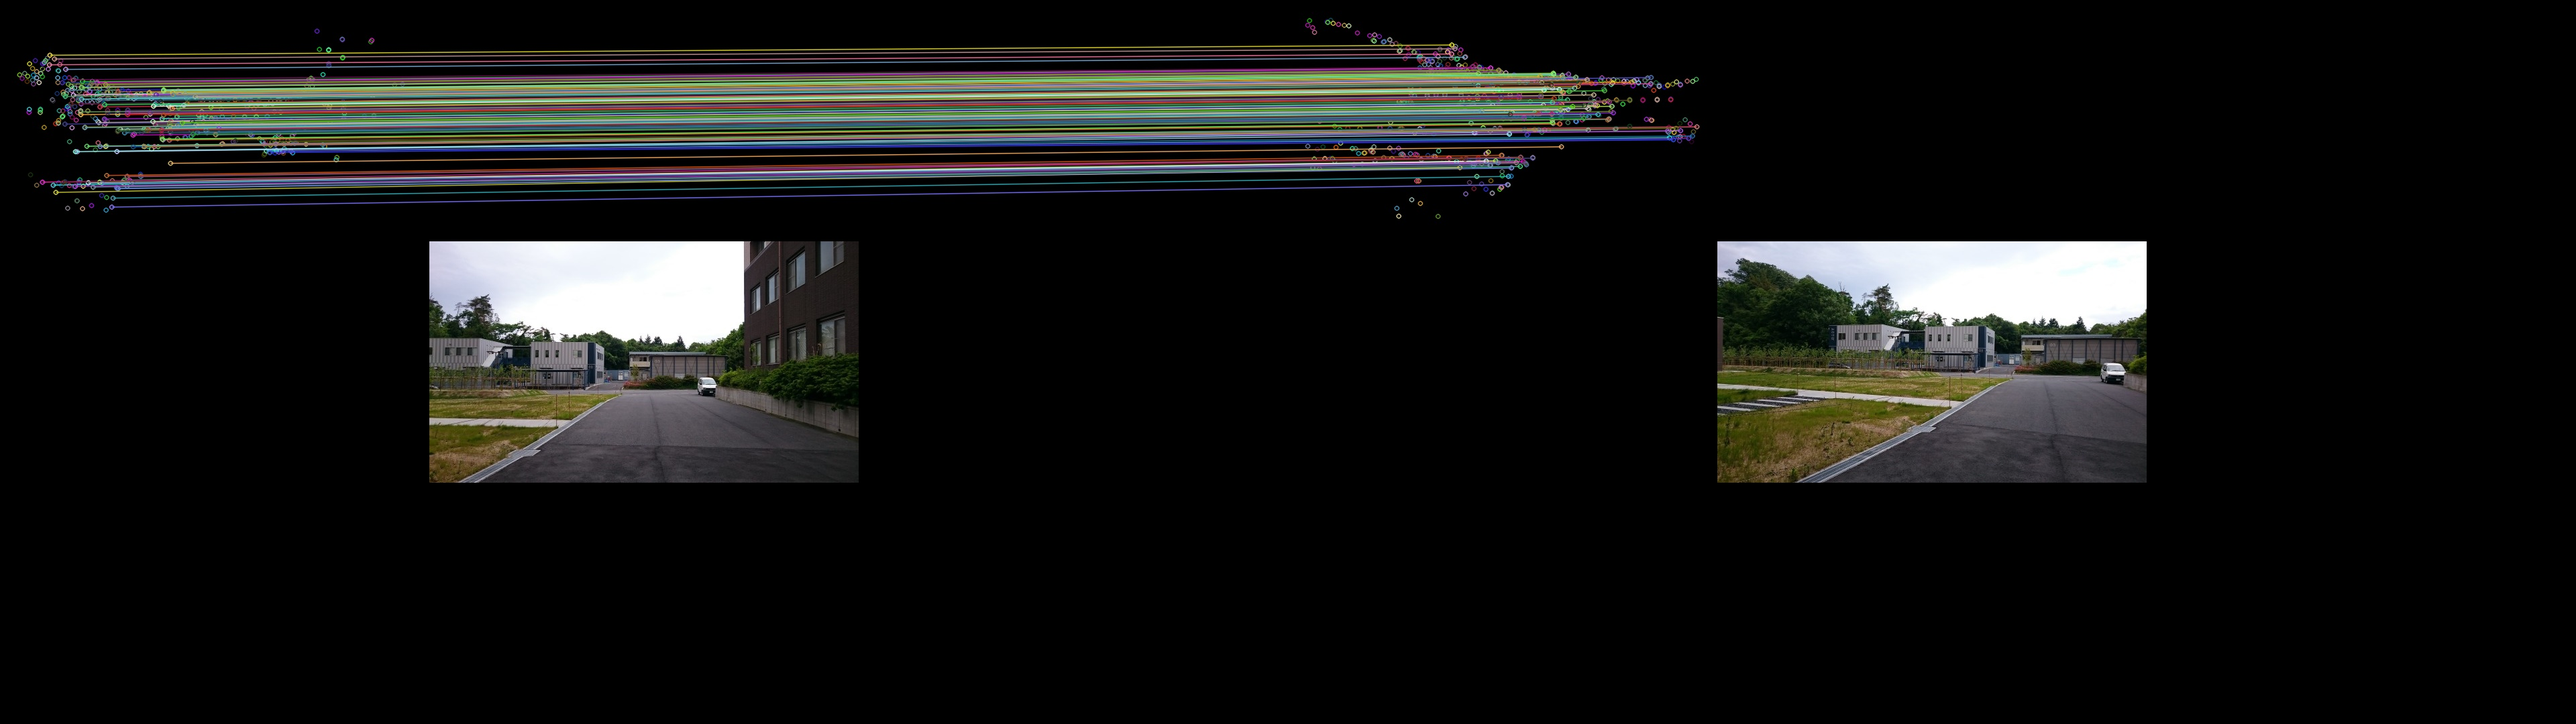
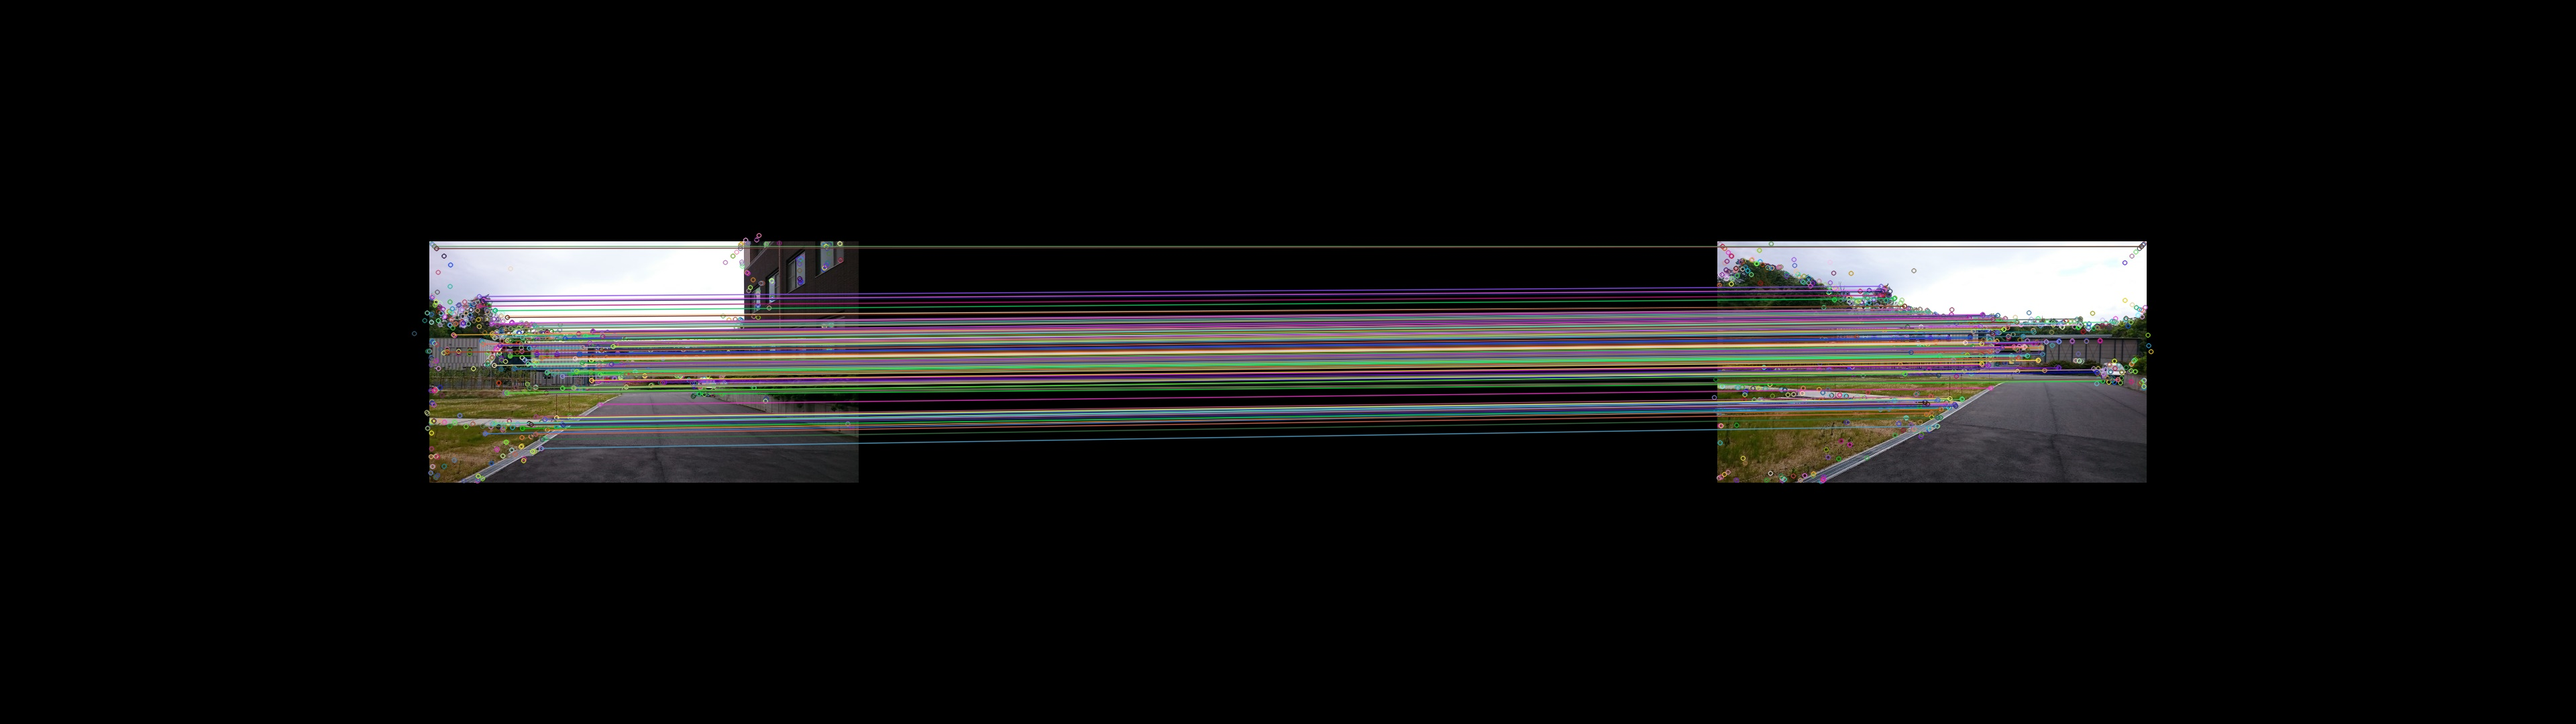
Trim関数で画像の黒部分をなくす

Changed region(s): [[0.1562, 0.3361, 0.8438, 0.6417], [0.0, 0.0306, 0.6562, 0.3056], [0.6875, 0.6417, 0.7188, 0.6722]]

diff --git a/Stitching/Stitch.py b/Stitching/Stitch.py
@@ -3,66 +3,97 @@
 import cv2
 import numpy as np
 
-imgSrc1 = cv2.imread('2.jpg')
-imgSrc2 = cv2.imread('1.jpg')
+def main():
+    imgSrc1 = cv2.imread('1.jpg')
+    imgSrc2 = cv2.imread('2.jpg')
 
-row,col,ch = imgSrc1.shape
-M = np.float32([[1,0,col],[0,1,row]])
-marginedImgSrc1 = cv2.warpAffine(imgSrc1,M,(imgSrc1.shape[1] * 3, imgSrc1.shape[0] * 3))
-marginedImgSrc2 = cv2.warpAffine(imgSrc2,M,(imgSrc2.shape[1] * 3, imgSrc2.shape[0] * 3))
-cv2.imwrite('marginedImgSrc1.jpg', marginedImgSrc1)
-cv2.imwrite('marginedImgSrc2.jpg', marginedImgSrc2)
-#グレースケール化
-imgSrc1Gray = cv2.cvtColor(marginedImgSrc1, cv2.COLOR_BGR2GRAY)
-imgSrc2Gray = cv2.cvtColor(marginedImgSrc2, cv2.COLOR_BGR2GRAY)
+    src1Rows,src1Cols,src1Ch1 = imgSrc1.shape
+    src2Rows,src2Cols,src1Ch2 = imgSrc2.shape
 
-# 特徴点  kp1, kp2
-# 特徴量記述子  des1, des2
-akaze = cv2.AKAZE_create()
-kp1, des1 = akaze.detectAndCompute(imgSrc1Gray, None)
-kp2, des2 = akaze.detectAndCompute(imgSrc2Gray, None)
+    # 余白が少ないと画像端の特徴点検出が行われないため、画像を任意の方向からくっつけるため余白を追加
+    H = np.float32([[1,0,src1Cols],[0,1,src1Rows]])
+    marginedImgSrc1 = cv2.warpAffine(imgSrc1,H,(src1Cols * 3, src1Rows * 3))
+    marginedImgSrc2 = cv2.warpAffine(imgSrc2,H,(src2Cols * 3, src2Rows * 3))
+    cv2.imwrite('marginedImgSrc1.jpg', marginedImgSrc1)
+    cv2.imwrite('marginedImgSrc2.jpg', marginedImgSrc2)
+    #グレースケール化
+    imgSrc1Gray = cv2.cvtColor(marginedImgSrc1, cv2.COLOR_BGR2GRAY)
+    imgSrc2Gray = cv2.cvtColor(marginedImgSrc2, cv2.COLOR_BGR2GRAY)
 
-# 特徴量をBFMatcher（総当り）でマッチング。
-# knnMatchで上位k = 3つのマッチング結果をmatchesに格納
-match = cv2.BFMatcher()
-matches = match.knnMatch(des2, des1, k=2)
+    # 特徴点  kp1, kp2
+    # 特徴量記述子  des1, des2
+    akaze = cv2.AKAZE_create()
+    kp1, des1 = akaze.detectAndCompute(marginedImgSrc1, None)
+    kp2, des2 = akaze.detectAndCompute(marginedImgSrc2, None)
 
-# 1つのmに対する2つのマッチング結果(n)同士の距離(distance)が離れていれば、良点(good)とする。
-goods = []
-for m, n in matches:
-    if m.distance < 0.7 * n.distance:
-        goods.append(m)
+    # 特徴量をBFMatcher（総当り）でマッチング。
+    # knnMatchで上位k = 3つのマッチング結果をmatchesに格納
+    match = cv2.BFMatcher()
+    matches = match.knnMatch(des2, des1, k=2)
 
-# ホモグラフィ計算 よくわからん
-MIN_MATCH_COUNT = 4
-if len(goods) > MIN_MATCH_COUNT:
-    src_pts = np.float32([ kp2[m.queryIdx].pt for m in goods ])
-    dst_pts = np.float32([ kp1[m.trainIdx].pt for m in goods ])
-    H = cv2.findHomography(src_pts, dst_pts, cv2.RANSAC, 5.0)[0]
-else:
-    print('Not enought matches are found - {}/{}'.format(len(goods), MIN_MATCH_COUNT))
-    exit(1)
+    # 1つのmに対する2つのマッチング結果(n)同士の距離(distance)が離れていれば、良点(good)とする。
+    goods = []
+    for m, n in matches:
+        if m.distance < 0.7 * n.distance:
+            goods.append(m)
 
+    # ホモグラフィ計算 よくわからん
+    MIN_MATCH_COUNT = 4
+    if len(goods) > MIN_MATCH_COUNT:
+        src_pts = np.float32([ kp2[m.queryIdx].pt for m in goods ])
+        dst_pts = np.float32([ kp1[m.trainIdx].pt for m in goods ])
+        H = cv2.findHomography(src_pts, dst_pts, cv2.RANSAC, 5.0)[0]
+    else:
+        print('Not enought matches are found - {}/{}'.format(len(goods), MIN_MATCH_COUNT))
+        exit(1)
 
-# ホモグラフィ行列で画像(imgSrc2)を移動
-warpedImgSrc2 = cv2.warpPerspective(marginedImgSrc2, H, (marginedImgSrc2.shape[1], marginedImgSrc2.shape[0]))
-# ホモグラフィ行列で移動したimgSrc2を出力
-cv2.imwrite('warpedImgSrc2.jpg', warpedImgSrc2)
+    cv2.imwrite('Matches.jpg', cv2.drawMatches(marginedImgSrc2, kp2, marginedImgSrc1, kp1, goods, None))
 
-imgStitched = warpedImgSrc2.copy()
-print(imgStitched.shape)
-# img_stitchedの(0 ~ imgSrc1.width, 0 ~ imgSrc1.height) にimgSrc1を貼り付ける。 copyToみたいな？
-# imgStitched[imgSrc2.shape[0]:imgSrc2.shape[0] + imgSrc1.shape[0], imgSrc2.shape[1]:imgSrc2.shape[1] + imgSrc1.shape[1]] = imgSrc1
-imgStitched[row:row * 2, col:col * 2] = imgSrc1
+    # ホモグラフィ行列で画像(imgSrc2)を移動
+    warpedImgSrc2 = cv2.warpPerspective(marginedImgSrc2, H, (marginedImgSrc2.shape[1], marginedImgSrc2.shape[0]))
+    cv2.imwrite('warpedImgSrc2.jpg', warpedImgSrc2)
 
-# 特徴点を出力
-# cv2.imwrite('drawKeypoints.jpg', cv2.drawKeypoints(imgSrc2, kp2, None))
+    # 結合
+    stitchedImg = warpedImgSrc2.copy()
+    stitchedImg[src1Rows : src1Rows * 2, src1Cols :src1Cols * 2] = imgSrc1
+    cv2.imwrite('stitchedImg.jpg', stitchedImg)
 
-# マッチング結果を出力
-cv2.imwrite('Matches.jpg', cv2.drawMatches(marginedImgSrc2, kp2, marginedImgSrc1, kp1, goods, None))
-# 何故か出来ない
+    #余分な部分を取り除く
+    trimedImg = Trim(stitchedImg)
+    cv2.imwrite('trimedImg.jpg', trimedImg)
 
-# 結合結果を出力
-cv2.imwrite('imgStitched.jpg', imgStitched)
+    cv2.waitKey(0)
 
-cv2.waitKey(0)
+def Trim(imgSrc):
+    # 画像読み込み
+    minX = 100000
+    minY = 100000
+    maxX = -100000
+    maxY = -100000
+
+    imgSrcRows, imgSrcCols, imgSrcCh = imgSrc.shape
+    # ピクセルにアクセス
+    for y in range(imgSrcRows):
+        for x in range(imgSrcCols):
+            img = imgSrc[y,x]
+            # それが黒じゃなかったら
+            if img[0] + img[1] + img[2] != 0:
+                #サイズを変換
+                if minX > x:
+                    minX = x
+                elif maxX < x:
+                    maxX = x
+                if minY > y:
+                    minY = y
+                elif maxY < y:
+                    maxY = y
+
+    imgDst = imgSrc.copy()
+    size = (maxX - minX, maxY - minY)
+    H = np.float32([[1,0,0 - minX],[0,1,0 - minY]])
+    imgDst = cv2.warpAffine(imgSrc,H,(size[0], size[1]))
+    
+    return imgDst
+
+if __name__ == '__main__':
+    main()

diff --git a/PixelAccess/PixcelAccess.py b/PixelAccess/PixcelAccess.py
@@ -1,0 +1,37 @@
+#!/usr/bin/python
+# -*- coding: utf-8 -*-
+import cv2
+import numpy as np
+
+def Trim(img):
+    # 画像読み込み
+    imgSrc1 = cv2.imread('2.jpg')
+    minX = 100000
+    minY = 100000
+    maxX = -100000
+    maxY = -100000
+
+    imgSrc1Rows, imgSrc1Cols, imgSrc1Ch = imgSrc1.shape
+    # ピクセルにアクセス
+    for y in range(imgSrc1Rows):
+        for x in range(imgSrc1Cols):
+            # print(x)
+            img = imgSrc1[y,x]
+            # それが黒じゃなかったら
+            if img[0] + img[1] + img[2] != 0:
+                #サイズを変換
+                if minX > x:
+                    minX = x
+                elif maxX < x:
+                    maxX = x
+                if minY > y:
+                    minY = y
+                elif maxY < y:
+                    maxY = y
+
+    imgDst = imgSrc1.copy()
+    size = (maxX - minX, maxY - minY)
+    H = np.float32([[1,0,0 - minX],[0,1,0 - minY]])
+    imgDst = cv2.warpAffine(imgSrc1,H,(size[0], size[1]))
+    
+    return imgDst
